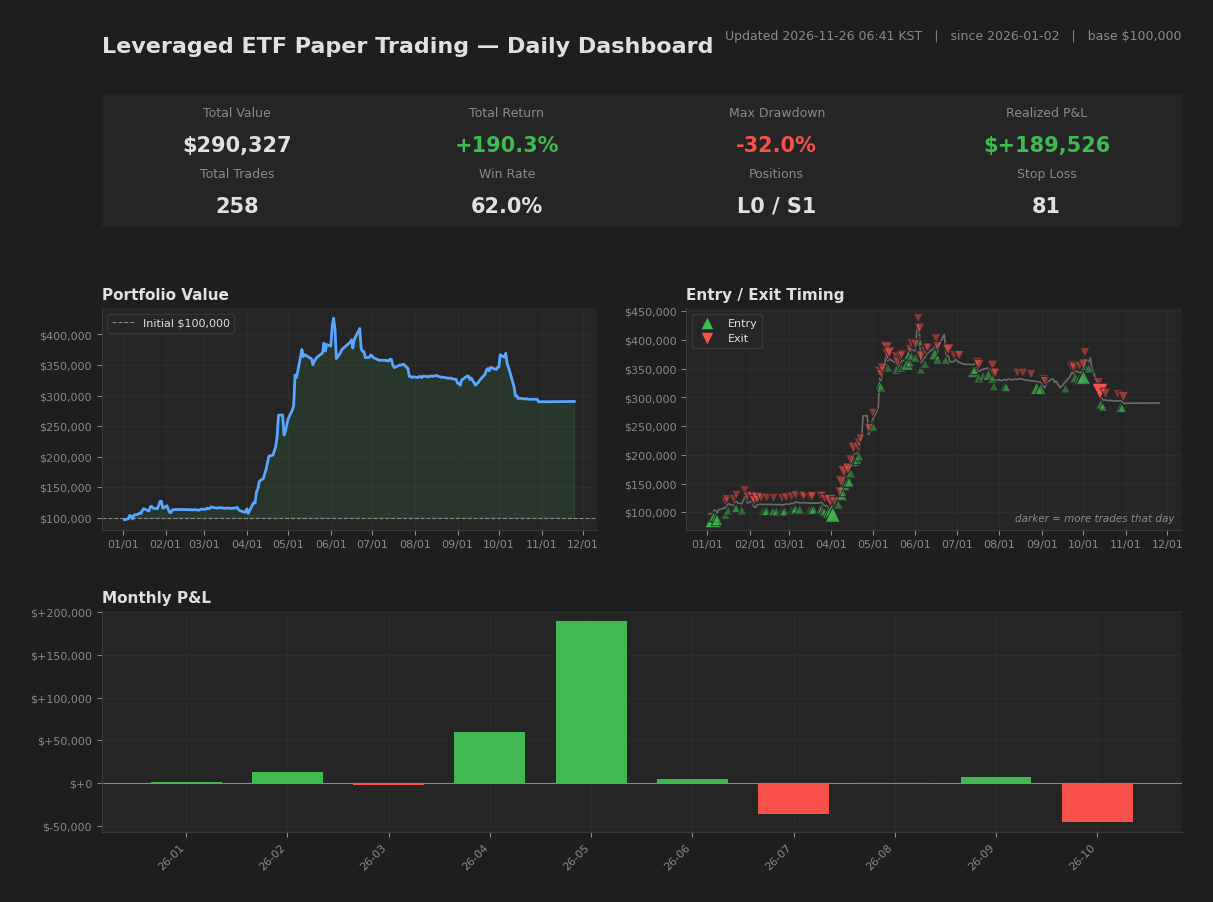
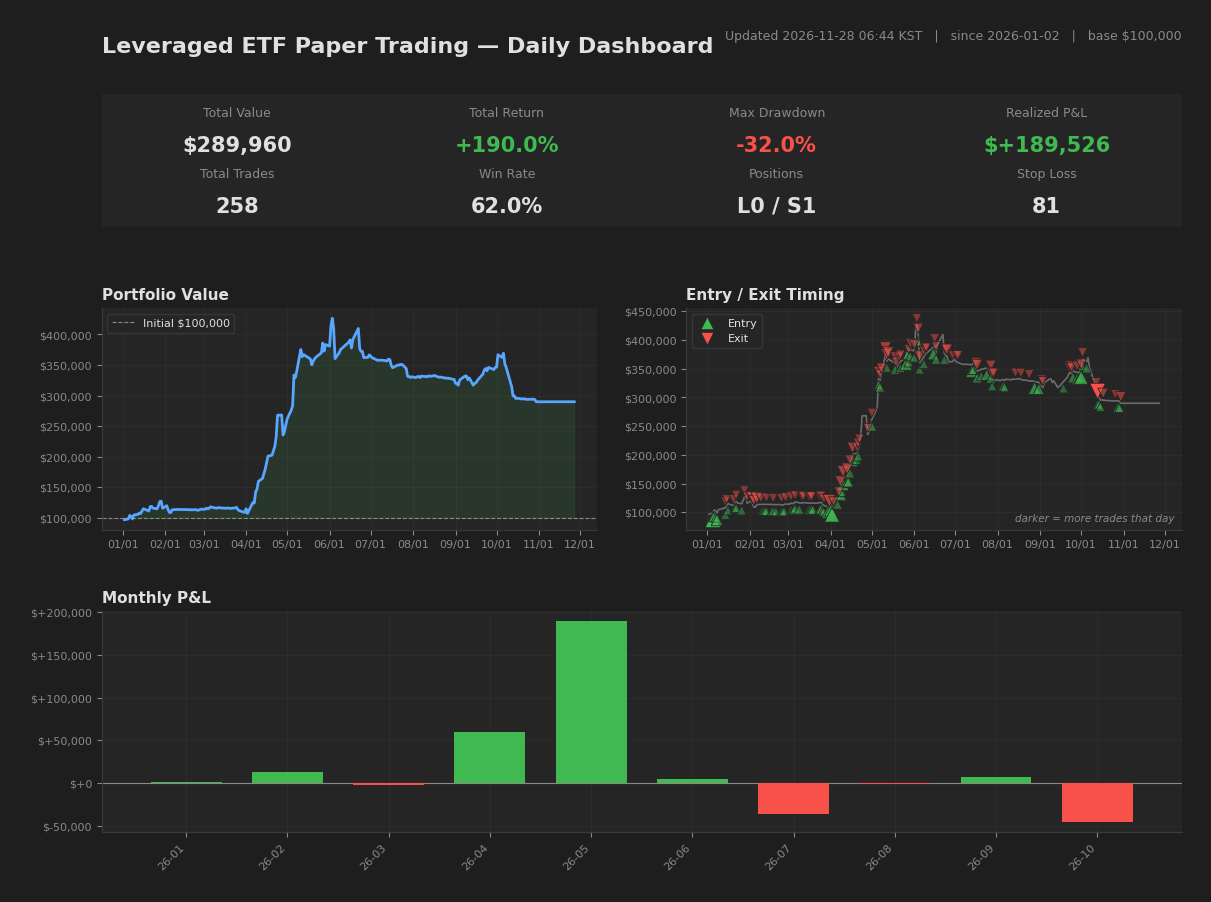
[2026-11-27] Close
Portfolio: $289,960 (+190.0%)
Positions: 1 (L0 S1)
Cumulative: 160/258 wins, P&L: $+189,526

diff --git a/README.md b/README.md
@@ -20,7 +20,7 @@ Drawdown control vs. benchmark. While the benchmark experienced a maximum drawdo
 
 <!-- METRICS:BEGIN (auto-generated by snapshot_backup.py after each market close; do not edit by hand) -->
 - Maximum drawdown: **-32.02%** (peak 2026-06-03 -> trough 2026-10-30, recovered since)
-- As of **2026-11-25** market close. Updated automatically after each close.
+- As of **2026-11-27** market close. Updated automatically after each close.
 <!-- METRICS:END -->
 
 Execution costs. Because the strategy holds positions over multi-day periods with low turnover, the impact of slippage and commissions is designed to be limited rather than a primary driver of results.
